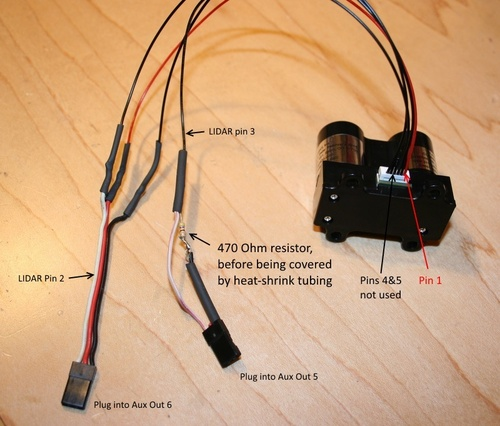
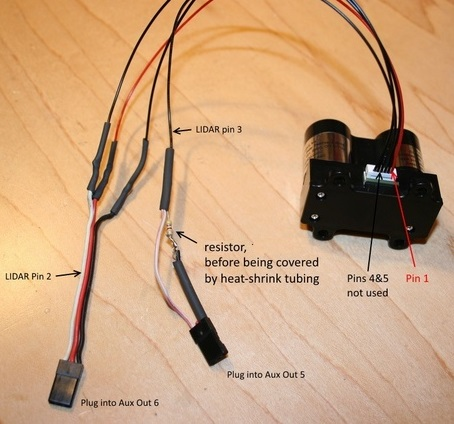
Fix up pulldown resister to 1KOhm

diff --git a/en/sensor/lidar_lite.md b/en/sensor/lidar_lite.md
@@ -46,7 +46,7 @@ Pin | Lidar-Lite (v2, v3) | Pixhawk AUX Servo | Comment
 --- | ---   | --- | ---
 1   | VCC   | AUX 6 (center) | Power supply. 4.75-5.5V DC Nominal, Maximum 6V DC.
 2   | RESET | AUX 6 (bottom) | Reset line of the sensor
-3   | PWM   | AUX 5 (bottom) | PWM input of the Lidar Lite. **Needs a 470 Ohm pull-down (to GND)**
+3   | PWM   | AUX 5 (bottom) | PWM input of the Lidar Lite. **Needs a 1 KOhm pull-down (to GND)**
 4   | SCL   | - | Not connected
 5   | SDA   | - | Not connected
 6   | GND   | AUX 6 (top)    | Ground
